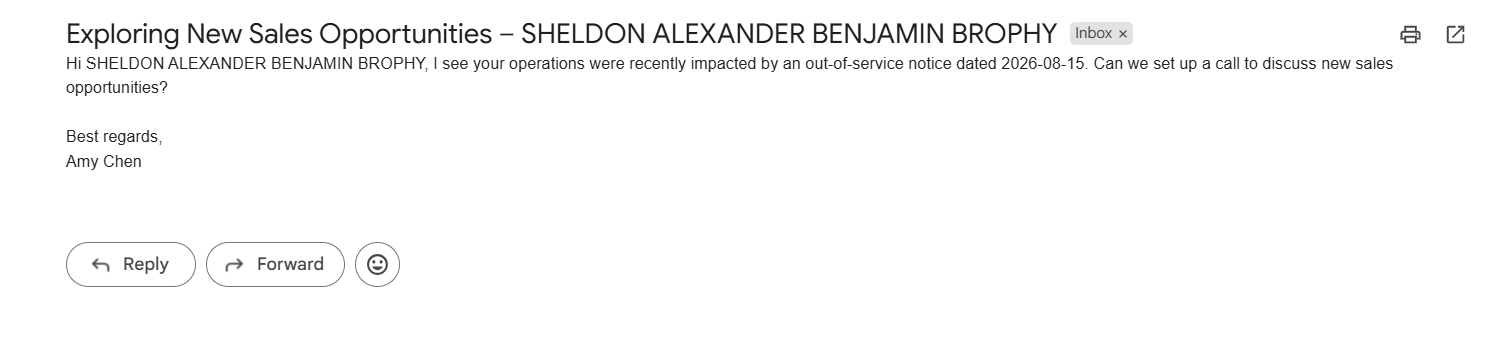
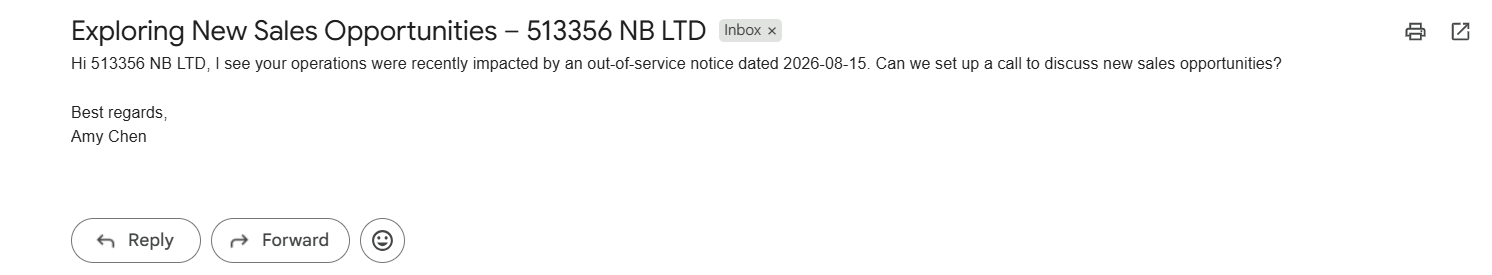
Add Send Outreach confirmation, real delivered email, and live AI chat example
- Send Outreach screenshot showing the same opportunity progressed to
  Outreach Sent, plus the actual delivered email (sender cropped).
- A live AI Sales Assistant answer grounded on real Texas OOS records,
  alongside the existing empty-state screenshot.

diff --git a/README.md b/README.md
@@ -24,11 +24,17 @@ plus an AI assistant grounded on the live data via an Azure AI Foundry agent.
 **AI Sales Assistant** — chat grounded on the live data via an Azure AI Foundry agent
 ![AI Sales Assistant](docs/screenshots/assistant.png)
 
+**AI Sales Assistant in action** — a real answer grounded on live Texas OOS records, not fabricated
+![AI Sales Assistant answering a question](docs/screenshots/assistant-chat.png)
+
 **Assign Salesperson** — opportunity #447 (513356 NB LTD), unassigned, ready to route to the rep for its state
 ![Assign Salesperson](docs/screenshots/drawer-assign-prompt.png)
 
 **Generate Outreach** — the same opportunity, now assigned, after generating outreach via the Foundry agent
 ![Generate outreach](docs/screenshots/drawer-4-generated.png)
+
+**Send Outreach** — the same opportunity after Send Outreach, status progressed to Outreach Sent
+![Outreach sent](docs/screenshots/drawer-6-sent.png)
 
 **Real outreach email** — actually delivered by the Send Outreach action for that same opportunity (sender address cropped)
 ![Outreach email received](docs/screenshots/outreach-email-received.png)
